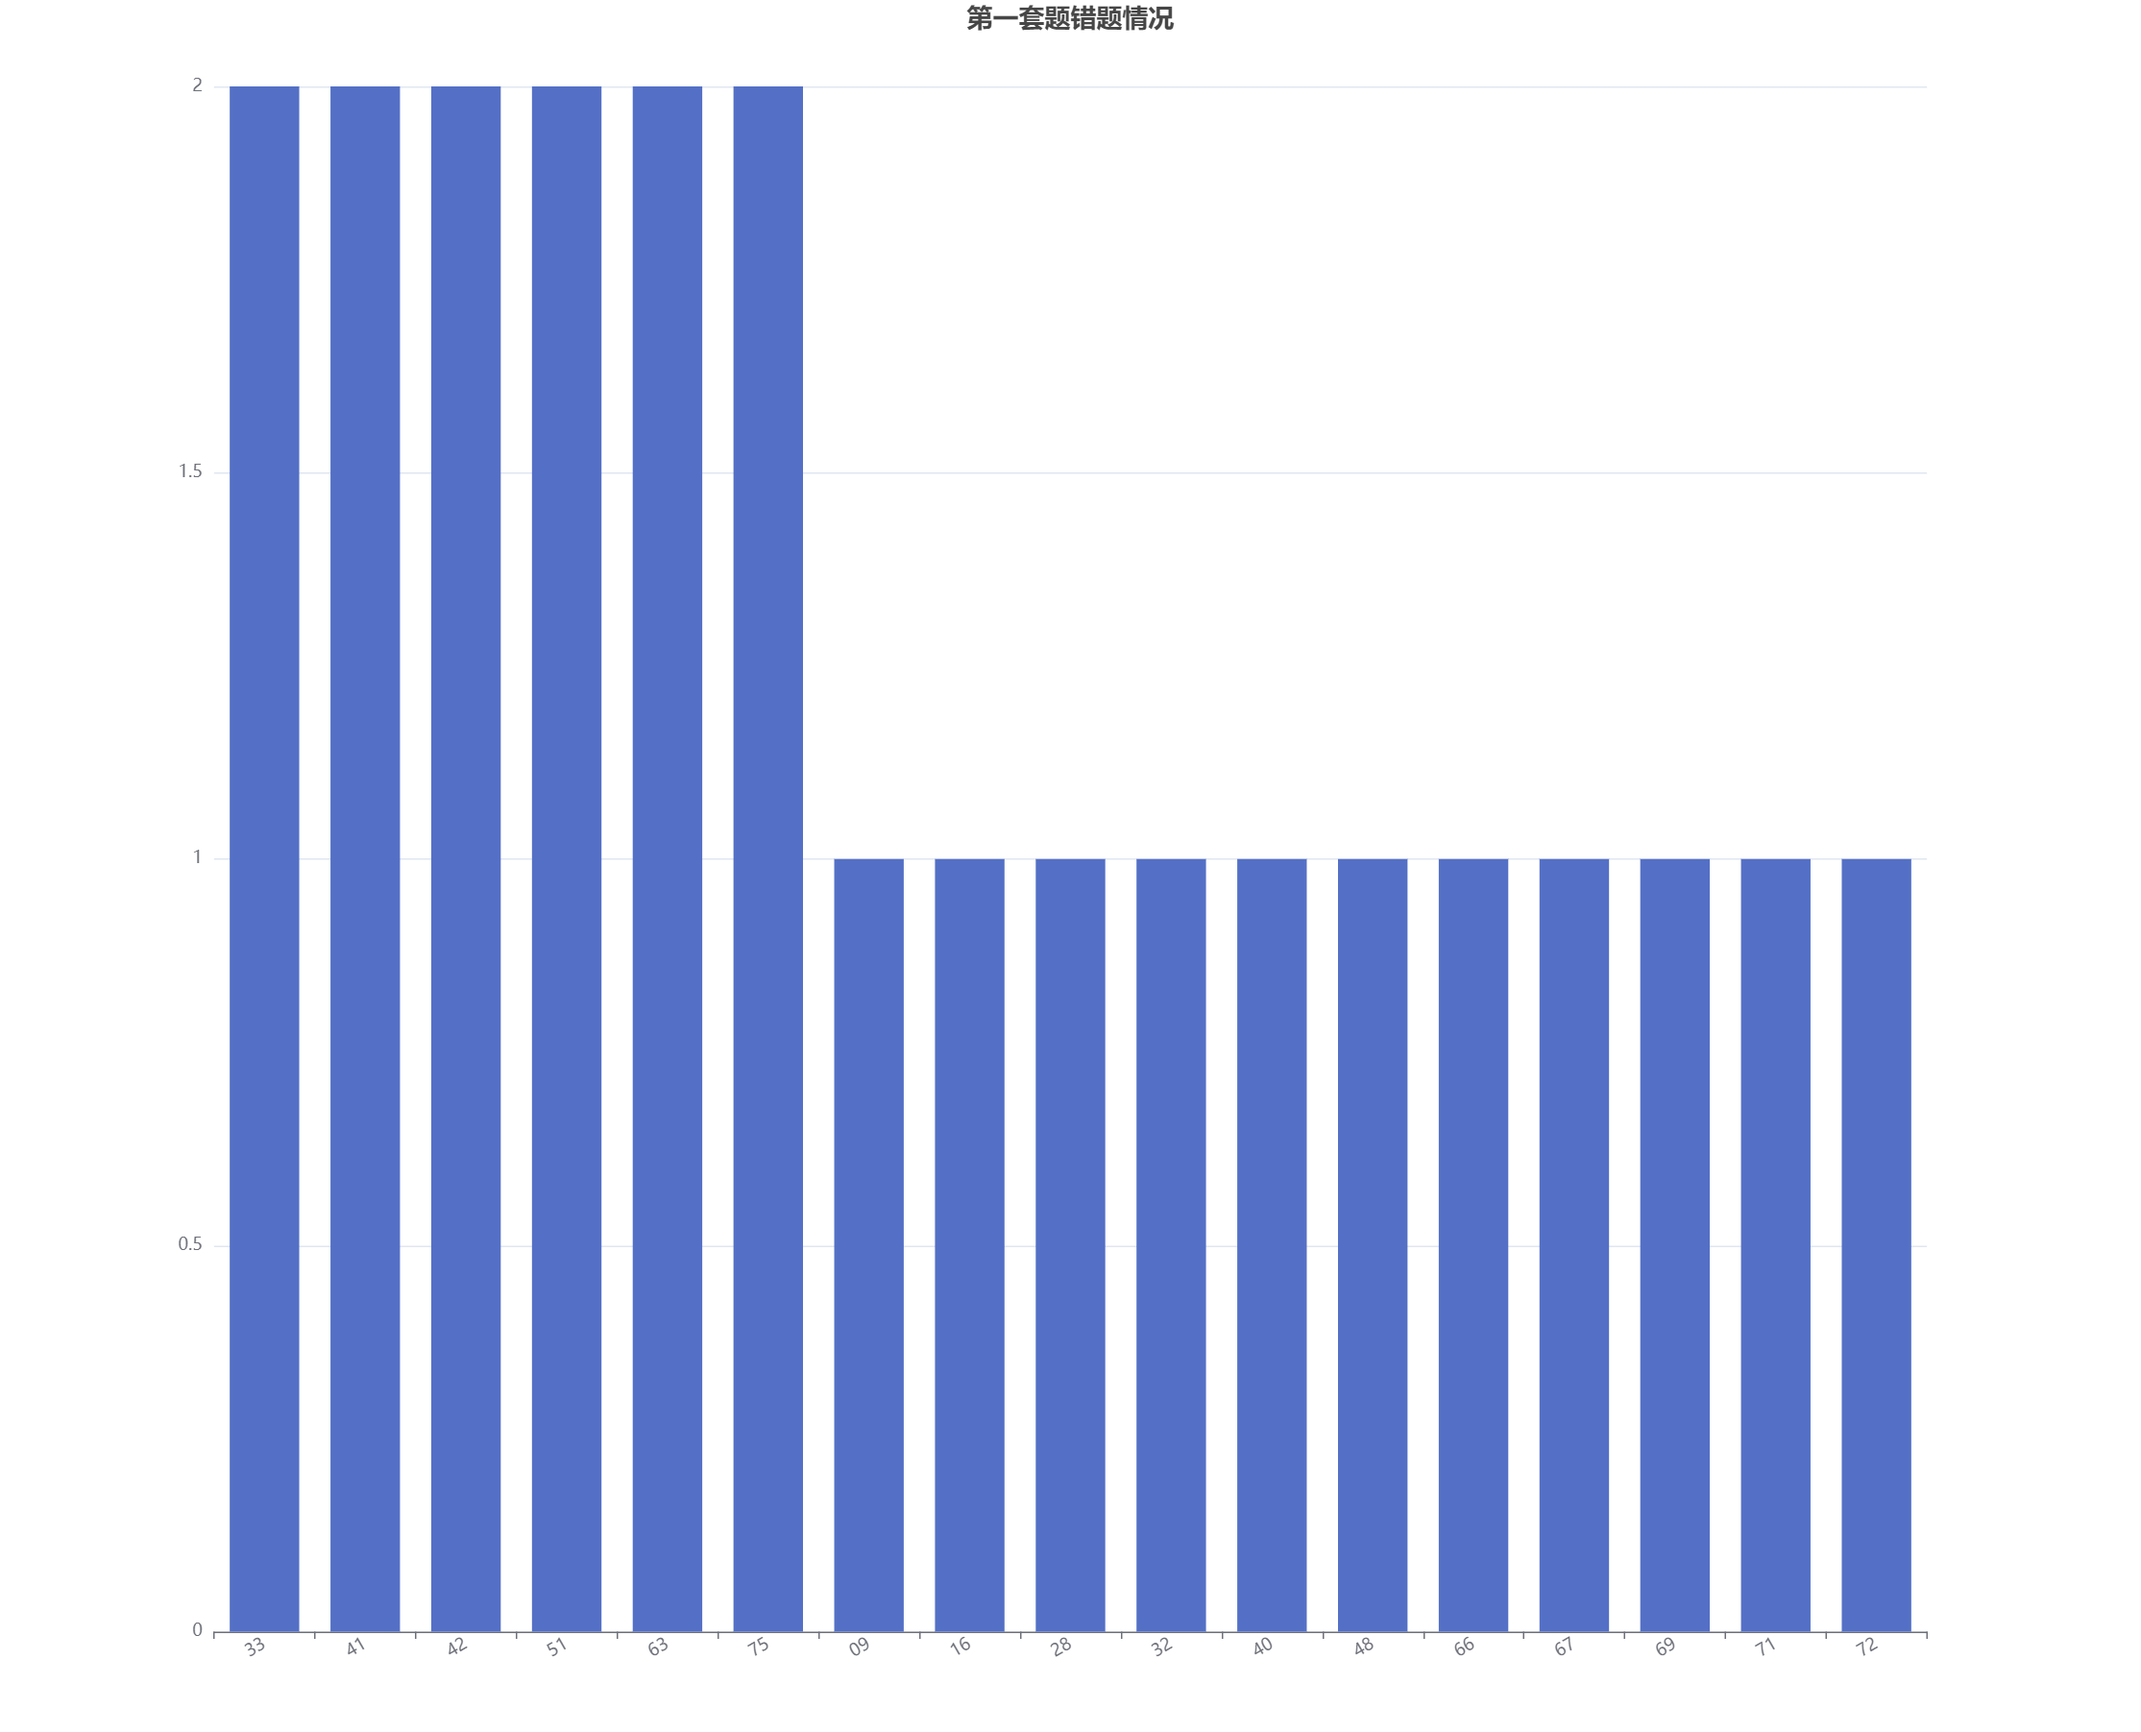
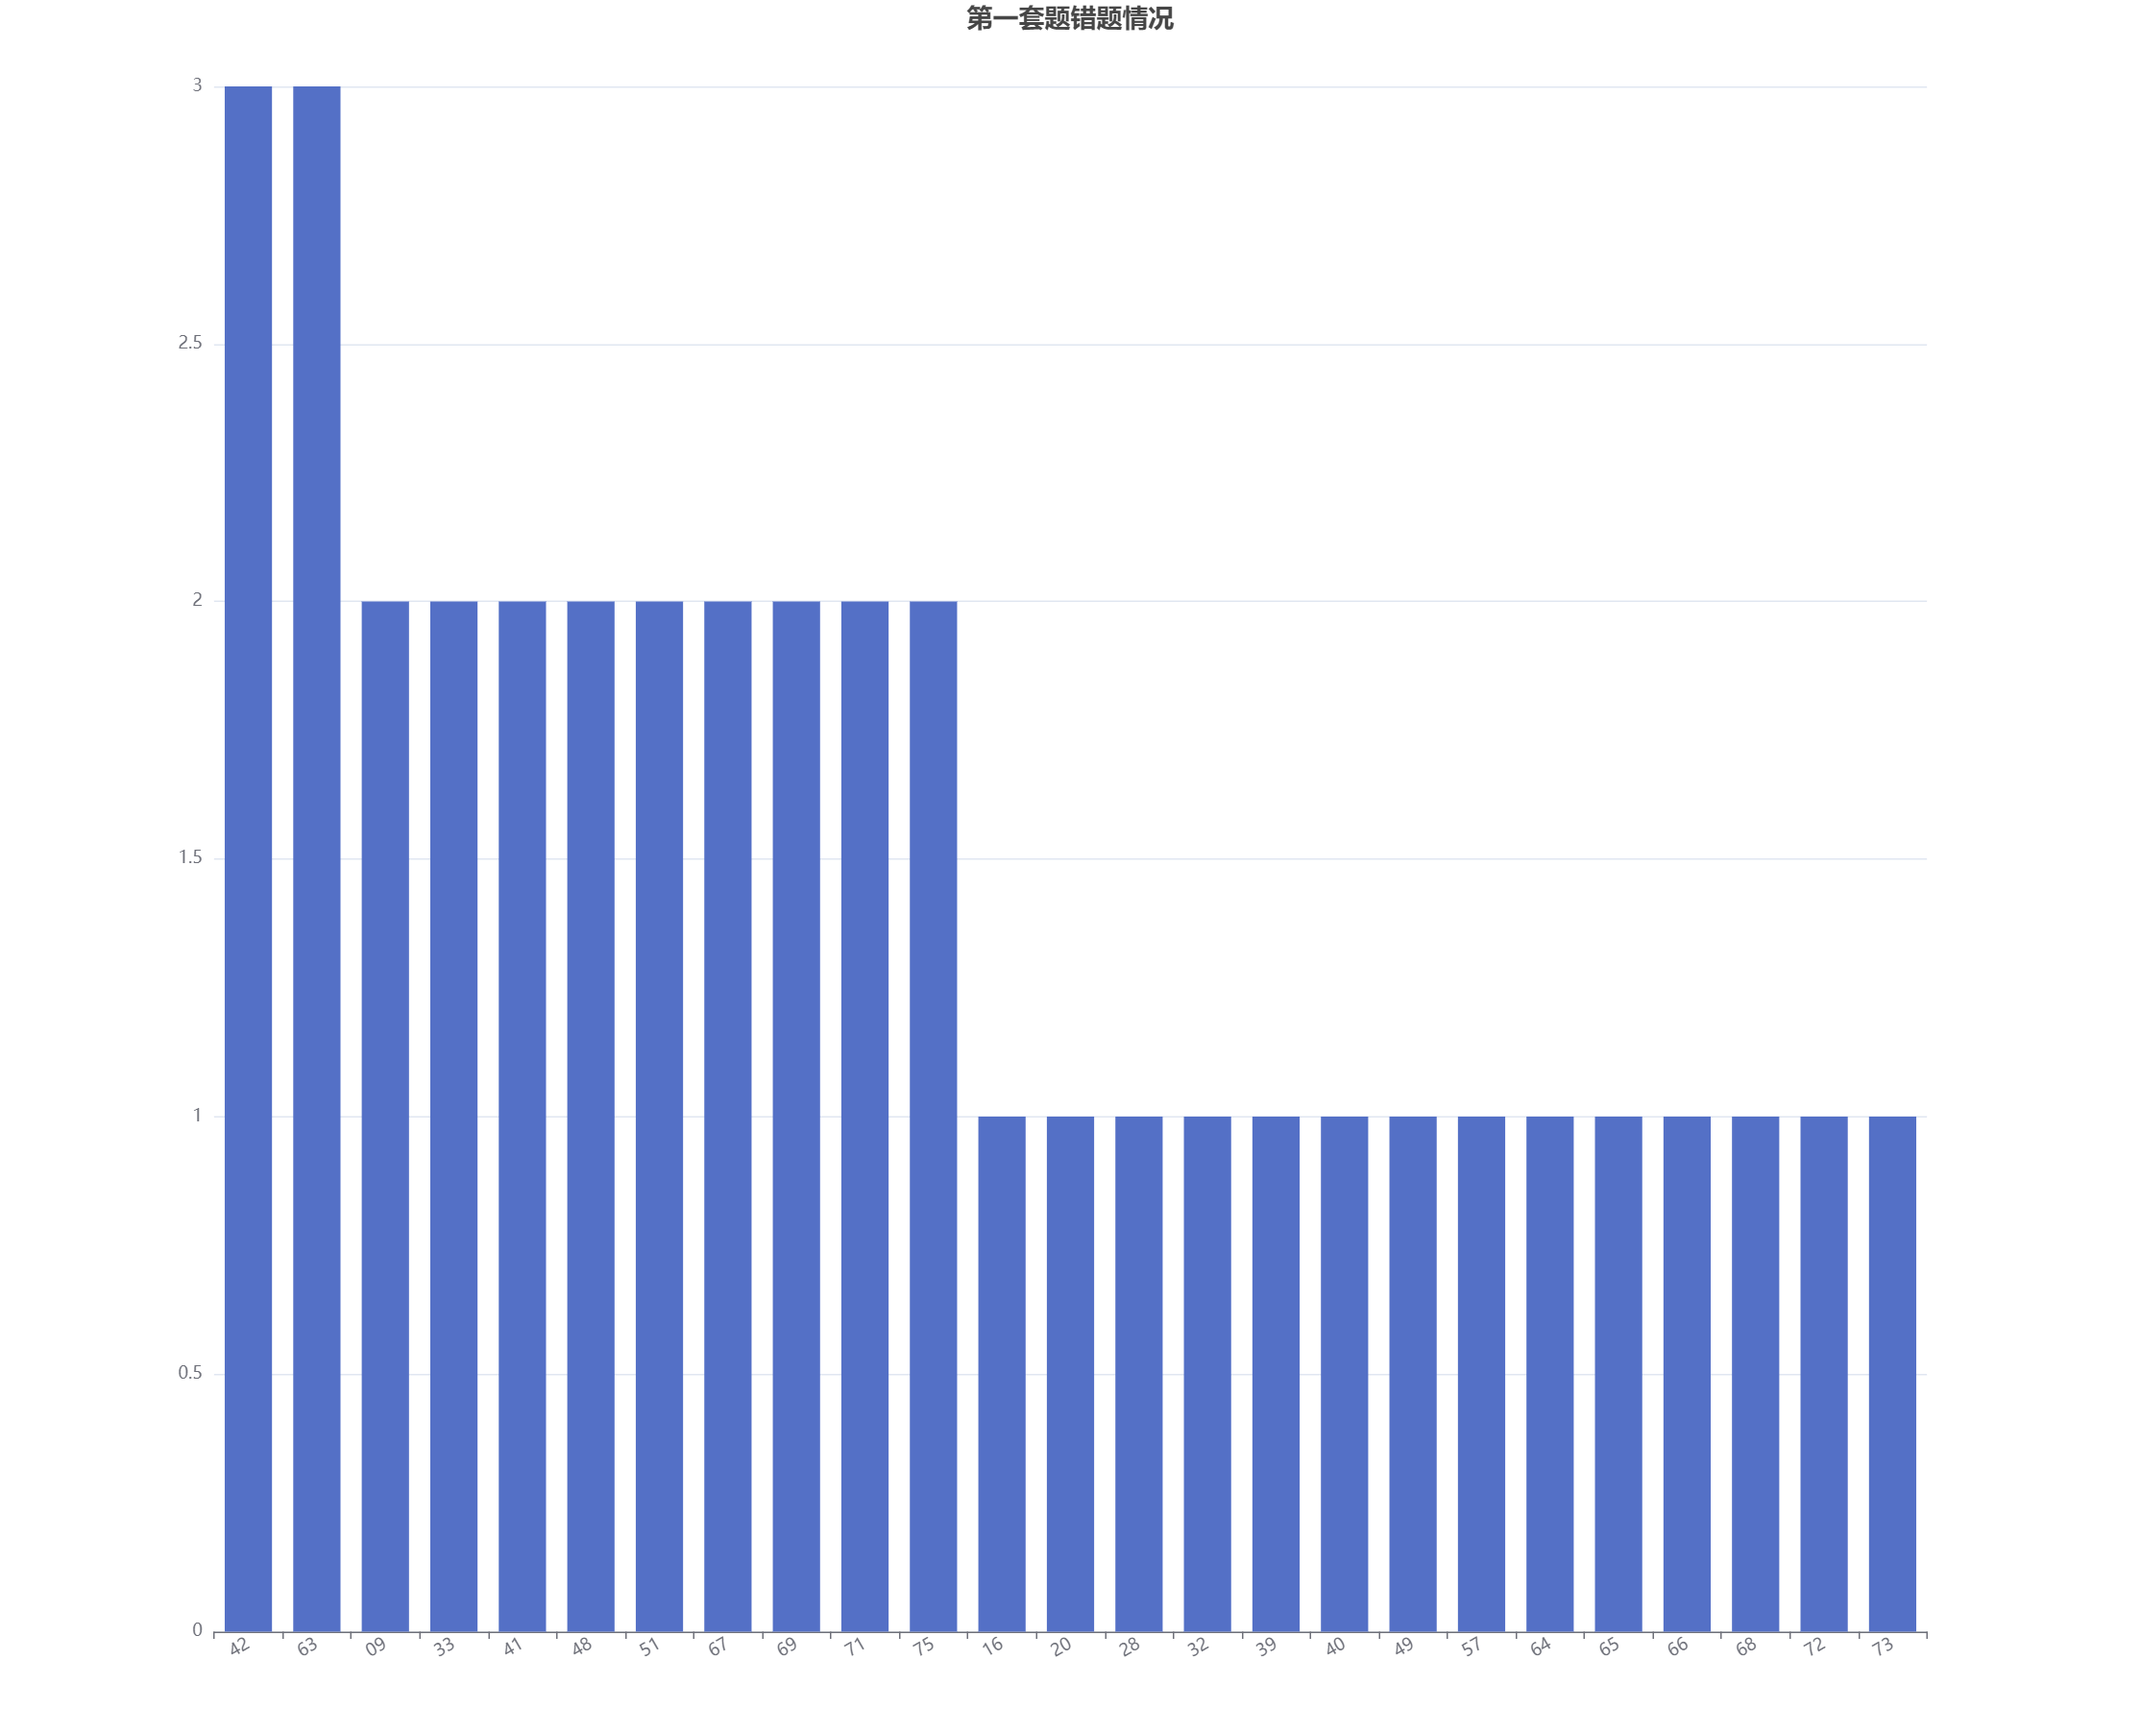
[update] up test1 result

Changed region(s): [[0.1238, 0.031, 0.8977, 0.9623]]

diff --git a/src/testReview.js b/src/testReview.js
@@ -7,22 +7,30 @@ option = {
     {
       dimensions: ["number", "frequent"],
       source: [
-        ["09", 1],
+        ["09", 2],
         ["16", 1],
+        ["20", 1],
         ["28", 1],
         ["32", 1],
         ["33", 2],
+        ["39", 1],
         ["40", 1],
         ["41", 2],
-        ["42", 2],
-        ["48", 1],
+        ["42", 3],
+        ["48", 2],
+        ["49", 1],
         ["51", 2],
-        ["63", 2],
+        ["57", 1],
+        ["63", 3],
+        ["64", 1],
+        ["65", 1],
         ["66", 1],
-        ["67", 1],
-        ["69", 1],
-        ["71", 1],
+        ["67", 2],
+        ["68", 1],
+        ["69", 2],
+        ["71", 2],
         ["72", 1],
+        ["73", 1],
         ["75", 2],
       ],
     },

diff --git a/src/dailyPractice.js b/src/dailyPractice.js
@@ -46,3 +46,36 @@ option = {
     },
   ],
 };
+
+///////////////////////////
+
+option = {
+  title: {
+    left: "center",
+    text: "第一套题库正确率推移",
+  },
+  tooltip: {
+    trigger: "axis",
+  },
+  xAxis: {
+    type: "category",
+    data: ["第一回", "第二回", "第三回"],
+  },
+  yAxis: {
+    type: "value",
+    axisLabel: {
+      formatter: "{value}%",
+    },
+  },
+  series: [
+    {
+      data: [84.0, 84.0, 80.00],
+      type: "line",
+      markLine: {
+        symbol: ["none", "none"],
+        label: { show: true },
+        data: [{ yAxis: 75 }],
+      },
+    },
+  ],
+};

diff --git a/README.md b/README.md
@@ -90,20 +90,12 @@
 - 468, 472, 477, 488, 489, 492, 499, 501, 503, 504, 508, 511
 - 正确率82.35%
 
-## 图表
+## 测试一（第一套题Q1~第一套题Q75）
 
-![01](./img/testReview1.png)
+![第一套题正确率](./img/correctRate1.png)
 
-![02](./img/testReview2.png)
+![第一套错题集](./img/testReview1.png)
 
-![03](./img/testReview3.png)
-
-![04](./img/testReview4.png)
-
-![05](./img/testReview5.png)
-
-![06](img/testReview6.png)
-
-![07](img/testReview7.png)
+## 总体正确率
 
 ![08](./img/correctRate.png)
